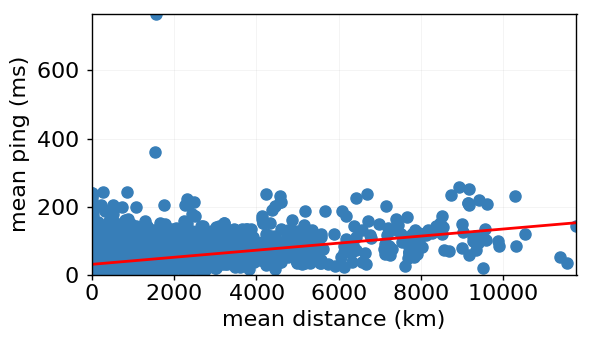
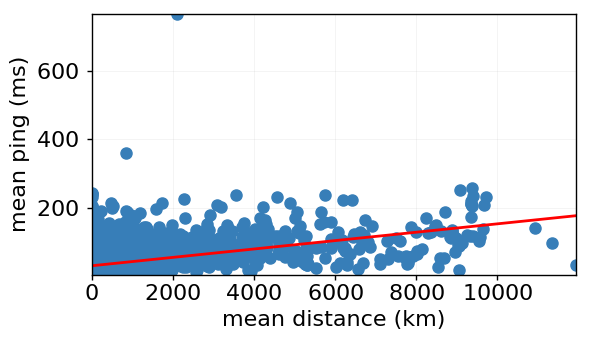
updated geographic spread section

diff --git a/imc2019/rawfiles/texfiles/geographicspread.tex b/imc2019/rawfiles/texfiles/geographicspread.tex
@@ -1,0 +1,43 @@
+\subsection{Geographic Spread}
+\label{sect:geospread}
+
+Here we examine each cluster's geographic spread --- the closeness, in terms of
+geographic distance, of members of the same cluster. As clients sharing the same
+cluster are predominantly exposed to the same network resources, the geographic
+spread of a cluster's clients must related to the network performance (latency)
+they experience. Specifically, if a pair of clients directed
+to the same network resource are physically ``far'' apart from each other, it is
+likewise impossible for \emph{both} clients to simultaneously be near said
+resource. In such an arrangement, the resource is either near one client and far from the other, or the
+resource is equidistant from both clients. In the latter case, if the clients
+are sufficiently far from each other, the resource must also far from both clients.
+
+To calculate these geographic distances, we use coordinates for RIPE Atlas
+probes --- our client machines in the context of this experiment --- obtained
+from RIPE Atlas's API. RIPE acquires probe location information via manual input
+from volunteers who themselves maintain Atlas probes, and, where necessary, by
+autmated input from MaxMind CITE. Figure \ref{geomeans} shows the CDF of the
+mean geographic distance (in kilometers) between members of a cluster, for each
+cluster. Members of a cluster with a larger mean geographic distance are farther
+apart form each other, on average, than are the members of a cluster with a
+lower mean geographic distance. In the median case, we see an average client
+distance of 509 km. We observe that for 20\% of clusters, members are over 1000
+km on average. For perspective, we remind the reader that the circumference of
+the world is approximately 40,075 km. 
+
+\begin{figure}
+    \epsfig{file=figs/geo_means.png, width=1\linewidth}
+    \caption{CDF of mean geographic distance between
+    cluster members. The dashed vertical line marks the median.}
+    \label{geomeans}
+\end{figure}
+
+Since CNRE potentially spans many, physically distinct resources, it serves as
+an \emph{aggregate} measurement and we do not attempt to pinpoint the location
+of any individual resource. Instead, 
+
+\begin{figure}
+    \epsfig{file=figs/geo_vs_perf.png, width=1\linewidth}
+    \caption{Domain match alignment with clusters (what format?)}
+    \label{geoperf}
+\end{figure}

diff --git a/scripts/section_cluster_analysis.py b/scripts/section_cluster_analysis.py
@@ -157,27 +157,28 @@ def get_dist_list(i):
         return []
 
 
-def plot_geo_std(workers):
+def plot_geo_mean(workers):
     pool = Pool(workers)
     stats = list()
     for dists in pool.imap_unordered(get_dist_list, range(len(g_clusters))):
         if dists:
             std = np.std(dists, ddof=1)
             diameter = float(max(dists))
-            ratio = float(std)/diameter
-            stats.append((std,diameter,ratio))
+            u = np.mean(dists)
+            length = len(dists)
+            stats.append((std,diameter,u, length))
     with open(g_ca.fmt_path('datadir/geo_stds/raw.json'),'w') as f:
         json.dump(stats,f)
     fig, ax = plt.subplots(figsize=(6,3.5))
-    stds, diameters, rats = zip(*stats)
-    ecdf = ECDF(stds)
+    stds, diameters, us, length = zip(*stats)
+    ecdf = ECDF(us)
     ax.plot(list(ecdf.x), list(ecdf.y))
-    m = np.median(stds)
+    m = np.median(us)
     ax.axvline(m, color='r', linestyle='--')
     ax.text(m, 0.85, str(m).split('.')[0], ha='center', va='center', backgroundcolor='white')
-    ax.set_xlabel('sample std (km)')
+    ax.set_xlabel('mean geographic distance (km)')
     ax.set_ylabel('CDF')
-    fig.savefig(g_ca.fmt_path('plotsdir/geo_stds/plot.png'))
+    fig.savefig(g_ca.fmt_path('plotsdir/geo_means/geo_means.png'))
     plt.close(fig)
 
 
@@ -192,8 +193,8 @@ if __name__ == '__main__':
     g_scb.nodes.load_pings()
     g_ca = ClusterAnalysis(scb=g_scb)
     g_clusters = g_ca.grouped_clusters(threshold=1.0-0.73)
-    #plot_perf_vs_geo(2)
-    plot_geo_std(2)
+    plot_perf_vs_geo(2)
+    plot_geo_mean(2)
     #plot_geo_centers()
     '''
     with open(g_ca.fmt_path('datadir/nclusters.txt'),'w') as f:

diff --git a/imc2019/rawfiles/texfiles/clusteranalysis.tex b/imc2019/rawfiles/texfiles/clusteranalysis.tex
@@ -2,16 +2,19 @@
 
 Now that we have built up an understanding of how CNRE behaves, we move to
 investigate the aggregate catchments of clients using clustering techniques
-discussed in the previous section. In this section, we use the discussed
-CNRE threshold of 0.73 for cluster formation. This threshold yields 870 clusters
-with a median cluster size of REF.
+discussed in the previous section. In this section, we use the aforementioned
+CNRE threshold of 0.73 for cluster formation. This threshold yields 870
+clusters.  For analysis, in which we compare clients that cohabit the same
+cluster, we consider only clusters for which our dataset has a representation of
+at least three clients; this yields 612 clusters from the original 870. The
+average cluster size from this reduced set is 218 members, with a standard
+deviation of 816 and a median size of 36. Note that cluster size variety is
+significantly impacted by our dataset, which has more client representation
+in western Europe and North America than in the rest of the world where RIPE's
+influence is more sparse CITE.
 
-\begin{figure}
-    \epsfig{file=figs/geo_vs_perf.png, width=1\linewidth}
-    \caption{CDF of \# of outliers per cluster for geo distance, etc}
-\end{figure}
+\input{texfiles/geographicspread.tex}
 
-In 
 
 \begin{figure}
     \epsfig{file=figs/country_cdf.png, width=1\linewidth}

diff --git a/scripts/clusterAnalysis.py b/scripts/clusterAnalysis.py
@@ -207,9 +207,8 @@ class ClusterAnalysis(ExperimentData):
             dists[i].append(d)
             dists[j].append(d)
         for i in dists:
-            dists[i] = np.mean(dists[i])
-        mean = np.mean(list(dists.values()))
-        center = sorted(list(dists.keys()), key=lambda z: abs(dists[z]-mean))[0]
+            dists[i] = sum(dists[i])
+        center = sorted(list(dists.keys()), key=lambda z: dists[z])[0]
         center_loc = self.scb.nodes[center].coords[0]
         center_loc = [center_loc[1], center_loc[0]]
         return (center, center_loc, {z[0]: vincenty(z[1], center_loc).km for z in nodes})
